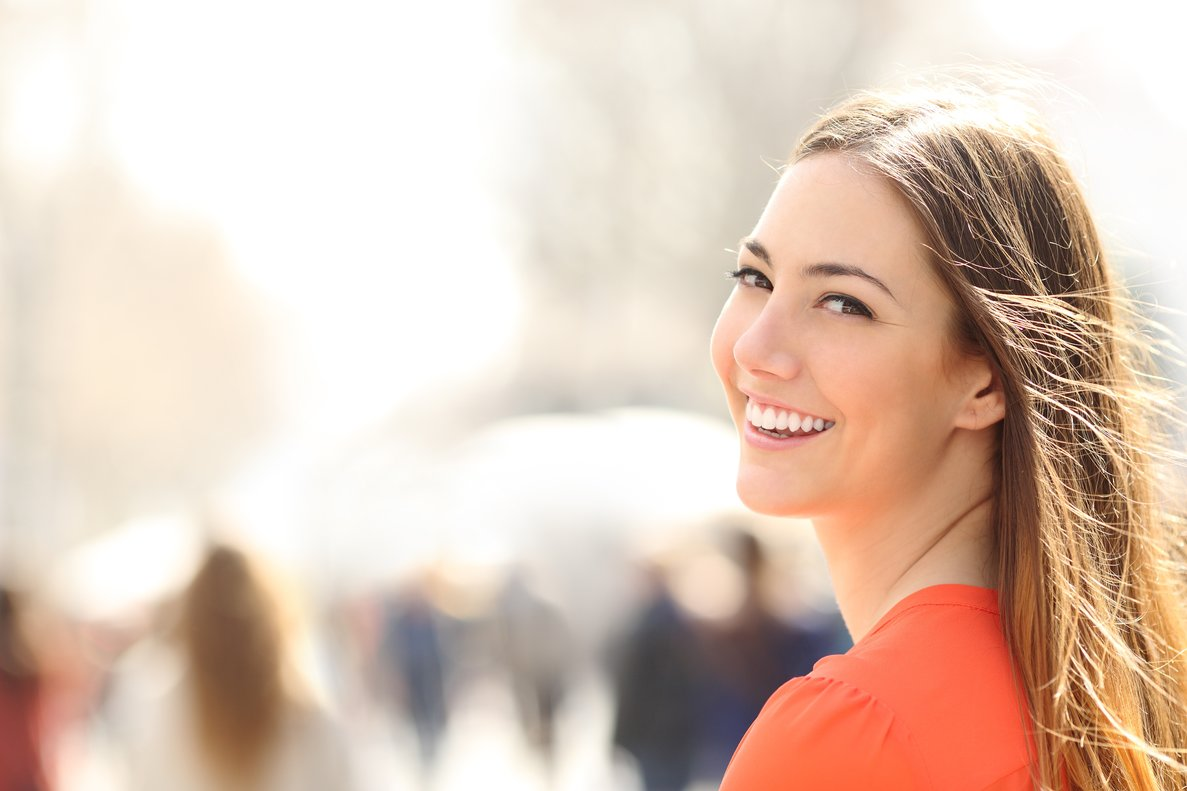
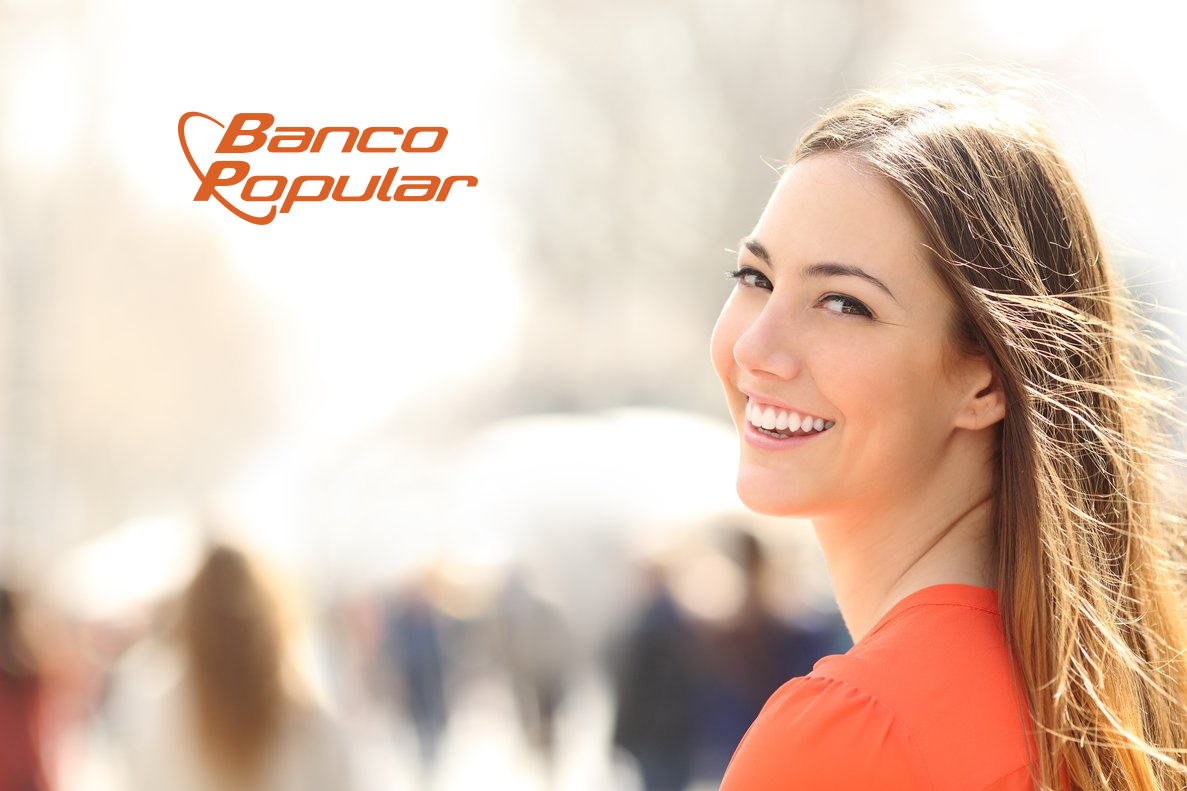
cambios en idiomas

Changed region(s): [[0.1559, 0.1214, 0.4052, 0.3034], [0.1247, 0.1517, 0.1559, 0.182]]

diff --git a/app/src/authentication/login/login.html b/app/src/authentication/login/login.html
@@ -1,8 +1,8 @@
 <div flex layout="row">
     <div layout="col" layout-align="start center" class="cover" flex-gt-md="70" hide-xs hide-sm>
         <div flex="60" class="cover-content">
-            <h1 class="md-display-2 cover-title">Banco Popular - En Línea</font></h1>
-            <p class="md-headline">Ofrecemos a nuestros clientes una gran variedad de productos innovadores, atención personalizada y servicios de alto valor agregado, buscando siempre satisfacer sus necesidades de inversión y superar sus expectativas de rentabilidad.</p>
+            <h1 class="md-display-2 cover-title"><font color="orange">Banco Popular - En Línea</font></h1>
+            <p class="md-headline"><font color="orange">Ofrecemos a nuestros clientes una gran variedad de productos innovadores, atención personalizada y servicios de alto valor agregado, buscando siempre satisfacer sus necesidades de inversión y superar sus expectativas de rentabilidad.</font></p>
         </div>
     </div>
     <div class="login-container" flex flex-gt-md="30">
